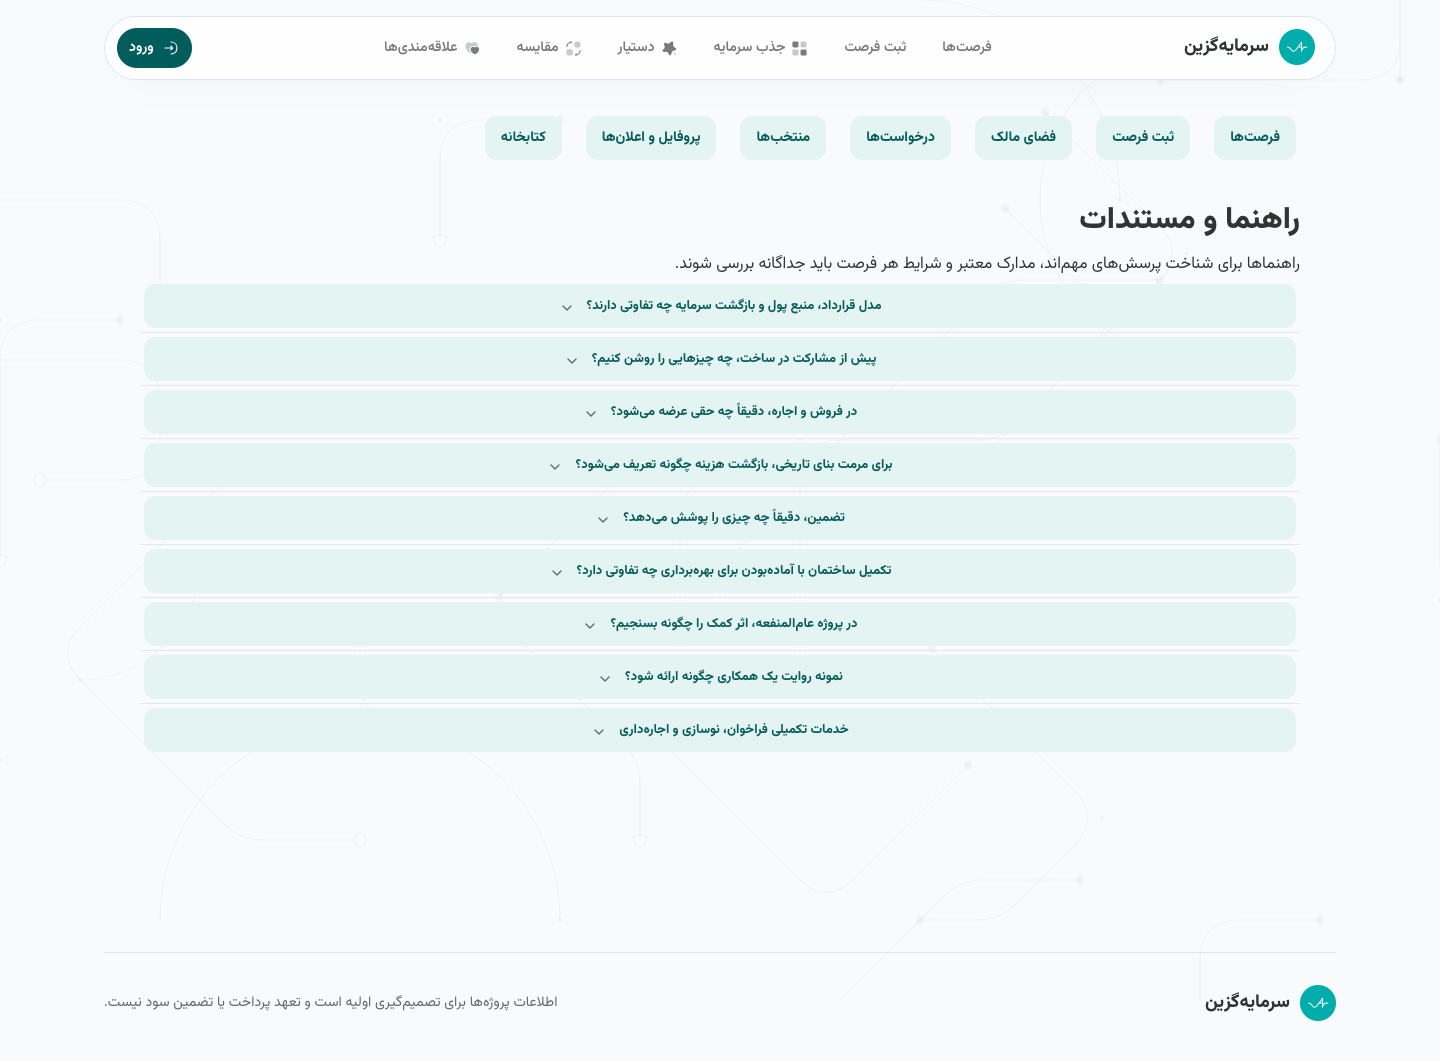
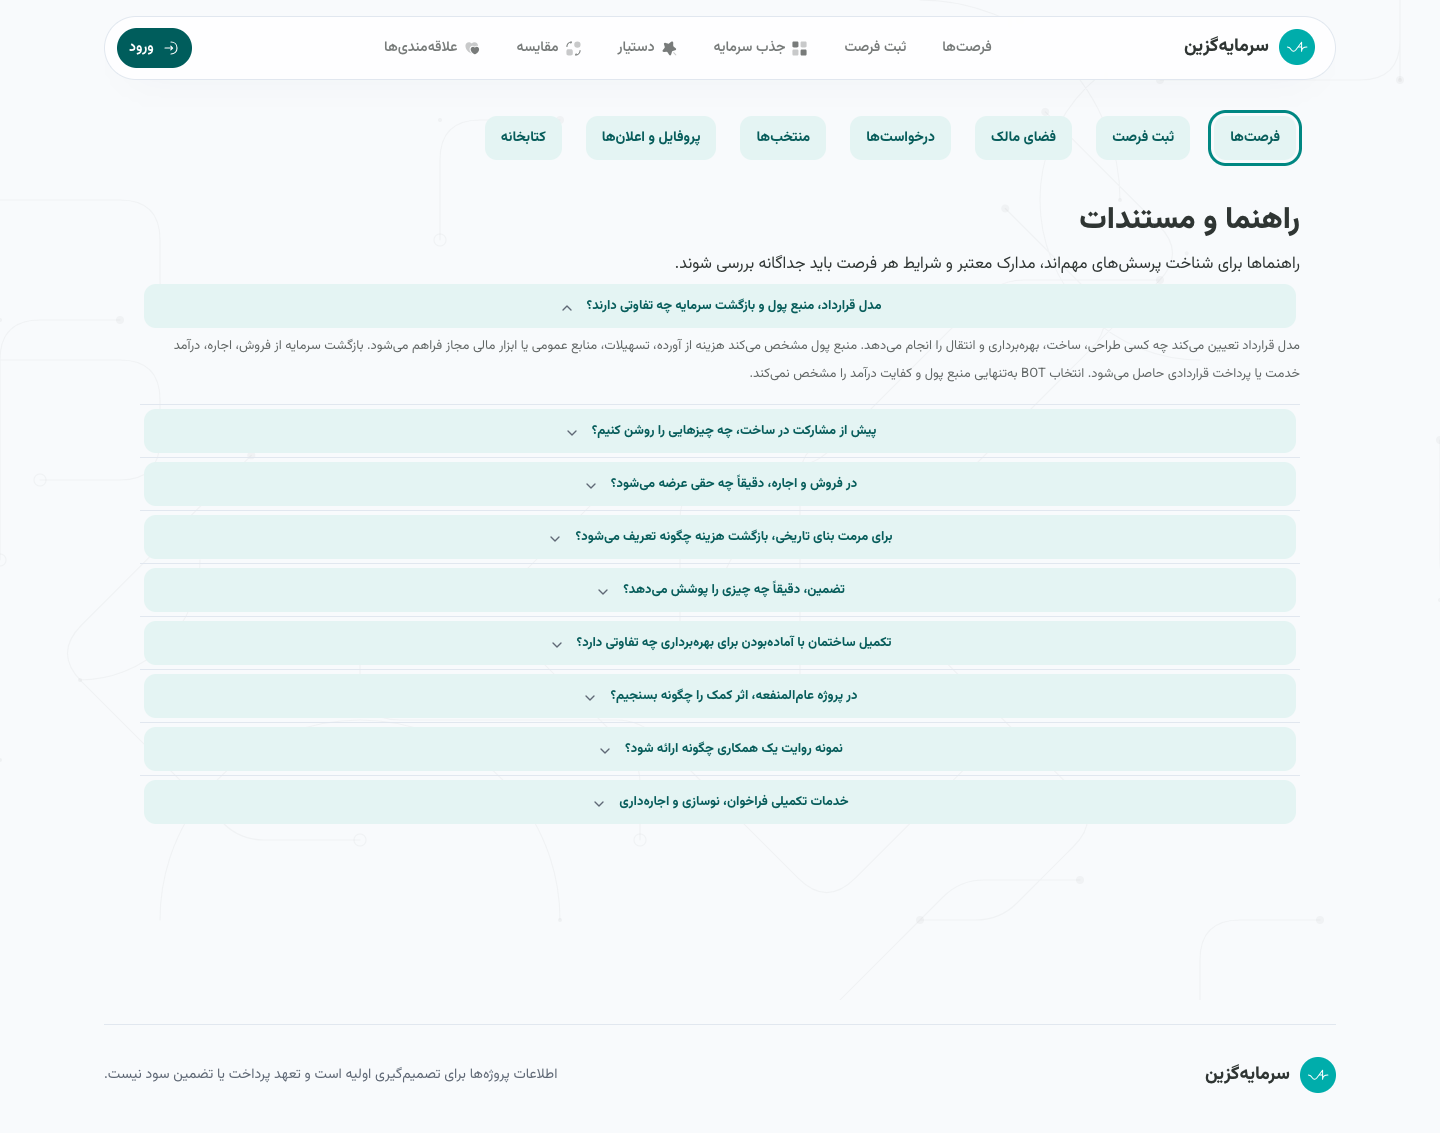
test(evidence): recapture open library accordions

diff --git a/docs/experience-complete/tech-evidence-fix-01/collect_runtime_provenance.py b/docs/experience-complete/tech-evidence-fix-01/collect_runtime_provenance.py
@@ -15,6 +15,10 @@ WEB_IMAGE = "investevidencefix-web:0380bbf"
 BACKEND_IMAGE = "investevidencefix-backend:0380bbf"
 WEB_CONTAINER = "invest-evidencefix-web-1"
 BACKEND_CONTAINER = "invest-evidencefix-backend-1"
+CURRENT_WEB_IMAGE = "invest-web"
+CURRENT_BACKEND_IMAGE = "invest-backend"
+CURRENT_WEB_CONTAINER = "invest-web-validation"
+CURRENT_BACKEND_CONTAINER = "invest-backend-1"
 
 
 def run(*args: str) -> str:
@@ -50,6 +54,9 @@ def main() -> None:
     web = inspect_image(WEB_IMAGE)
     backend = inspect_image(BACKEND_IMAGE)
     build_id = run("docker", "exec", WEB_CONTAINER, "cat", "/app/.next/BUILD_ID")
+    current_web = inspect_image(CURRENT_WEB_IMAGE)
+    current_backend = inspect_image(CURRENT_BACKEND_IMAGE)
+    current_build_id = run("docker", "exec", CURRENT_WEB_CONTAINER, "cat", "/app/.next/BUILD_ID")
     frontend_runtime = runtime_hashes(
         WEB_CONTAINER,
         "find /app/.next/static /app/.next/server/app/tools /app/.next/server/app/library -type f -exec sha256sum {} +; sha256sum /app/.next/BUILD_ID /app/server.js",
@@ -73,6 +80,7 @@ def main() -> None:
     for metadata_path in sorted(HERE.glob("capture-*.json")):
         metadata = json.loads(metadata_path.read_text())
         image_path = HERE / metadata["evidence_file"]
+        current = metadata["product_url"] == "http://127.0.0.1:3108"
         captures.append({
             **metadata,
             "metadata_file": metadata_path.name,
@@ -80,9 +88,9 @@ def main() -> None:
             "evidence_sha256": sha(image_path),
             "evidence_bytes": image_path.stat().st_size,
             "runtime": {
-                "frontend_image_id": web["image_id"],
-                "backend_image_id": backend["image_id"],
-                "frontend_build_id": build_id,
+                "frontend_image_id": current_web["image_id"] if current else web["image_id"],
+                "backend_image_id": current_backend["image_id"] if current else backend["image_id"],
+                "frontend_build_id": current_build_id if current else build_id,
             },
         })
 
@@ -97,7 +105,7 @@ def main() -> None:
         "all_13_captures_bound": len(captures) == 13,
         "all_capture_files_exist": all((HERE / row["evidence_file"]).exists() for row in captures),
         "capture_conditions_complete": all(
-            row["final_url"].startswith("http://127.0.0.1:3120")
+            row["final_url"].startswith(("http://127.0.0.1:3120", "http://127.0.0.1:3108"))
             and row["font_condition"]
             and row["motion_condition"] == "reduced"
             and row["browser"]["version"]
@@ -126,6 +134,16 @@ def main() -> None:
             "frontend_affected_file_hashes": frontend_runtime,
             "backend_missing_tracked_files": backend_missing,
             "backend_mismatched_tracked_files": backend_mismatches,
+            "current_recapture": {
+                "mission": "PROGRAMMER-RUNTIME-HOME-LOADING-FIX-01",
+                "product_url": "http://127.0.0.1:3108",
+                "frontend_container": CURRENT_WEB_CONTAINER,
+                "backend_container": CURRENT_BACKEND_CONTAINER,
+                "frontend_image": current_web,
+                "backend_image": current_backend,
+                "frontend_build_id": current_build_id,
+                "scope": "DES-035 library accordion-open at 360/390/768/1440 only",
+            },
         },
         "checks": checks,
         "failed": failed,

diff --git a/docs/experience-complete/tech-evidence-01/build_design_index.py b/docs/experience-complete/tech-evidence-01/build_design_index.py
@@ -124,7 +124,7 @@ def main() -> None:
                 "product_evidence": product, "reference_evidence": reference, "proof_or_limitation": proof,
                 "evidence_route": metadata["route"] if metadata else source["route"], "evidence_state": metadata["state"] if metadata else source["state"],
                 "representative_contract": "same-route-state; width represented by the same component/breakpoint contract" if classification == "representative-covered" else "",
-                "product_version": FIX_CHECKOUT if metadata else PRODUCT_VERSION, "reference_zip_sha256": REFERENCE_SHA, "synthetic_data": metadata["synthetic_seed"] if metadata else "isolated seed_core_demo or frozen synthetic report",
+                "product_version": ("RUNTIME-HOME-LOADING-FIX-01 (programmer build; exact image/build digest in runtime-provenance.json)" if metadata and metadata["product_url"] == "http://127.0.0.1:3108" else FIX_CHECKOUT) if metadata else PRODUCT_VERSION, "reference_zip_sha256": REFERENCE_SHA, "synthetic_data": metadata["synthetic_seed"] if metadata else "isolated seed_core_demo or frozen synthetic report",
                 "font": metadata["font_condition"] if metadata else "document.fonts.ready", "motion": metadata["motion_condition"] if metadata else "reduced", "capture_time_utc": metadata["captured_at_utc"] if metadata else capture_time(product),
                 "runtime_provenance": "docs/experience-complete/tech-evidence-fix-01/runtime-provenance.json" if metadata else "historical evidence path/version; no fresh-capture claim",
                 "interaction_evidence": "tech-evidence-01/interaction-evidence.csv", "human_verdict": "", "specialist_design_approval": "",
